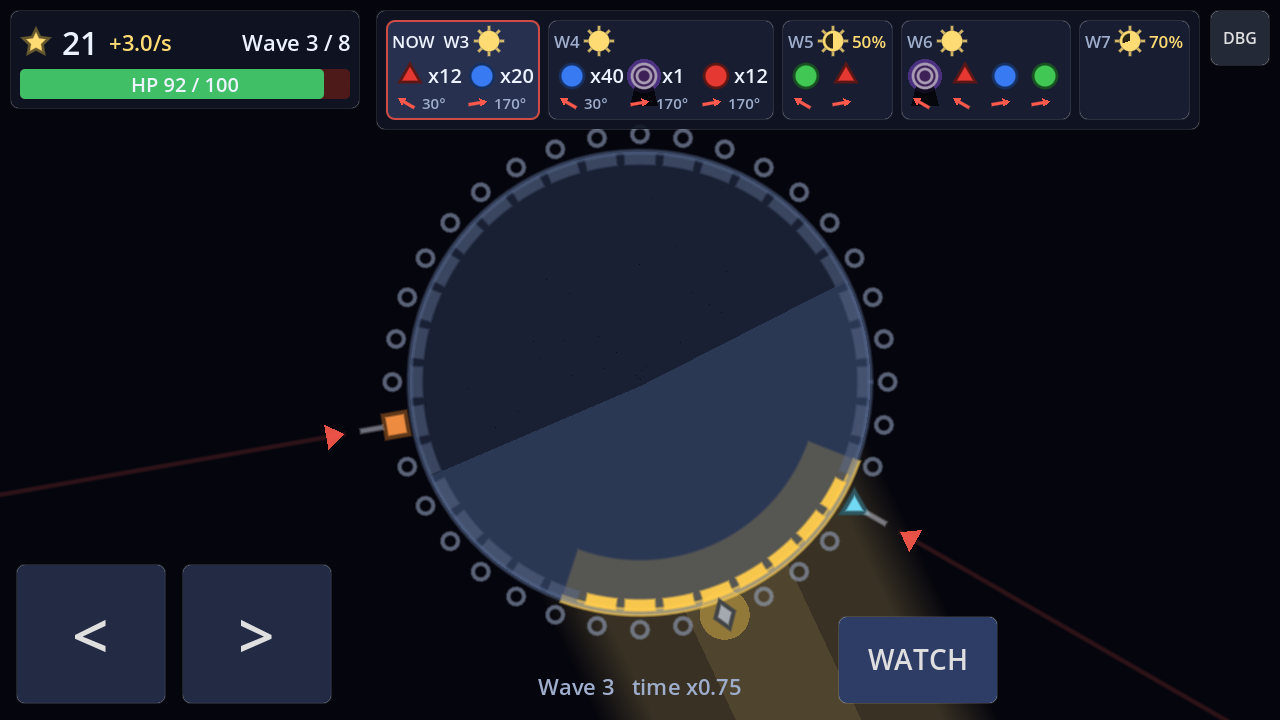
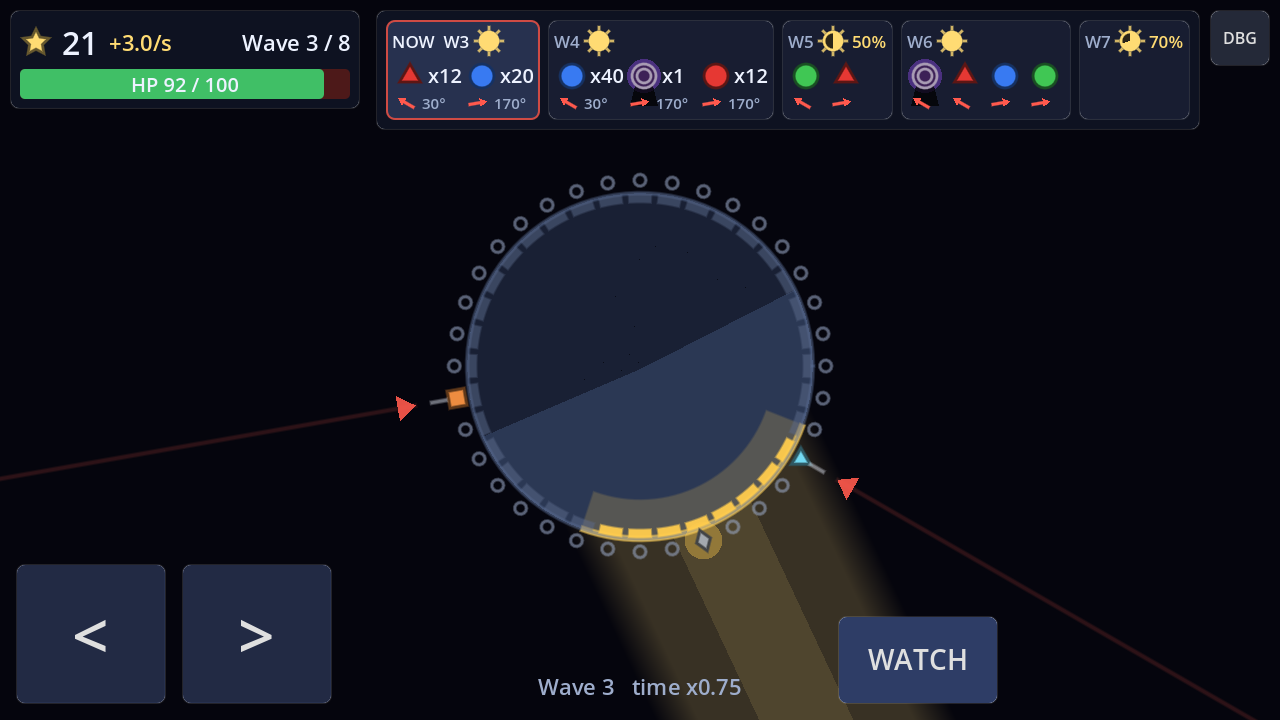
[M1.13] Build view fits the whole planet and slot ring (#15)
Daniele (feel gate): the Build view must show the planet's whole periphery.
surfacePlanetFrac 0.32 -> 0.24 and surfaceOffsetPx 22 -> 6 keep the ring
between the top bar/forecast and the bottom buttons.

Claude-Session: https://claude.ai/code/session_01J7xgx3gWMtmHTqJhvq8Bgi

Changed region(s): [[0.0, 0.1833, 0.9688, 1.0], [0.7188, 0.9778, 0.7812, 1.0]]

diff --git a/docs/STATUS.md b/docs/STATUS.md
@@ -24,6 +24,7 @@ Task checklist from BRIEF.md. Tick a task when its PR merges.
 - [x] M1.10 Bands and slow time (client; sim honours set_time_scale)
 - [x] M1.11 Debug overlay and tuning (client; tunables applied by SimServer)
 - [x] M1.12 Feel-gate fixes (Daniele, 2026-11-14): grab-to-spin rotation, bigger rotate buttons, two views Build/Watch with a timed glide, toggle button, auto-switch on wave start/end
+- [x] M1.13 Build view shows the whole planet and slot ring clear of the HUD (surfacePlanetFrac 0.32 -> 0.24)
 
 ## Design track
 - [ ] D1 DECISIONS.md
